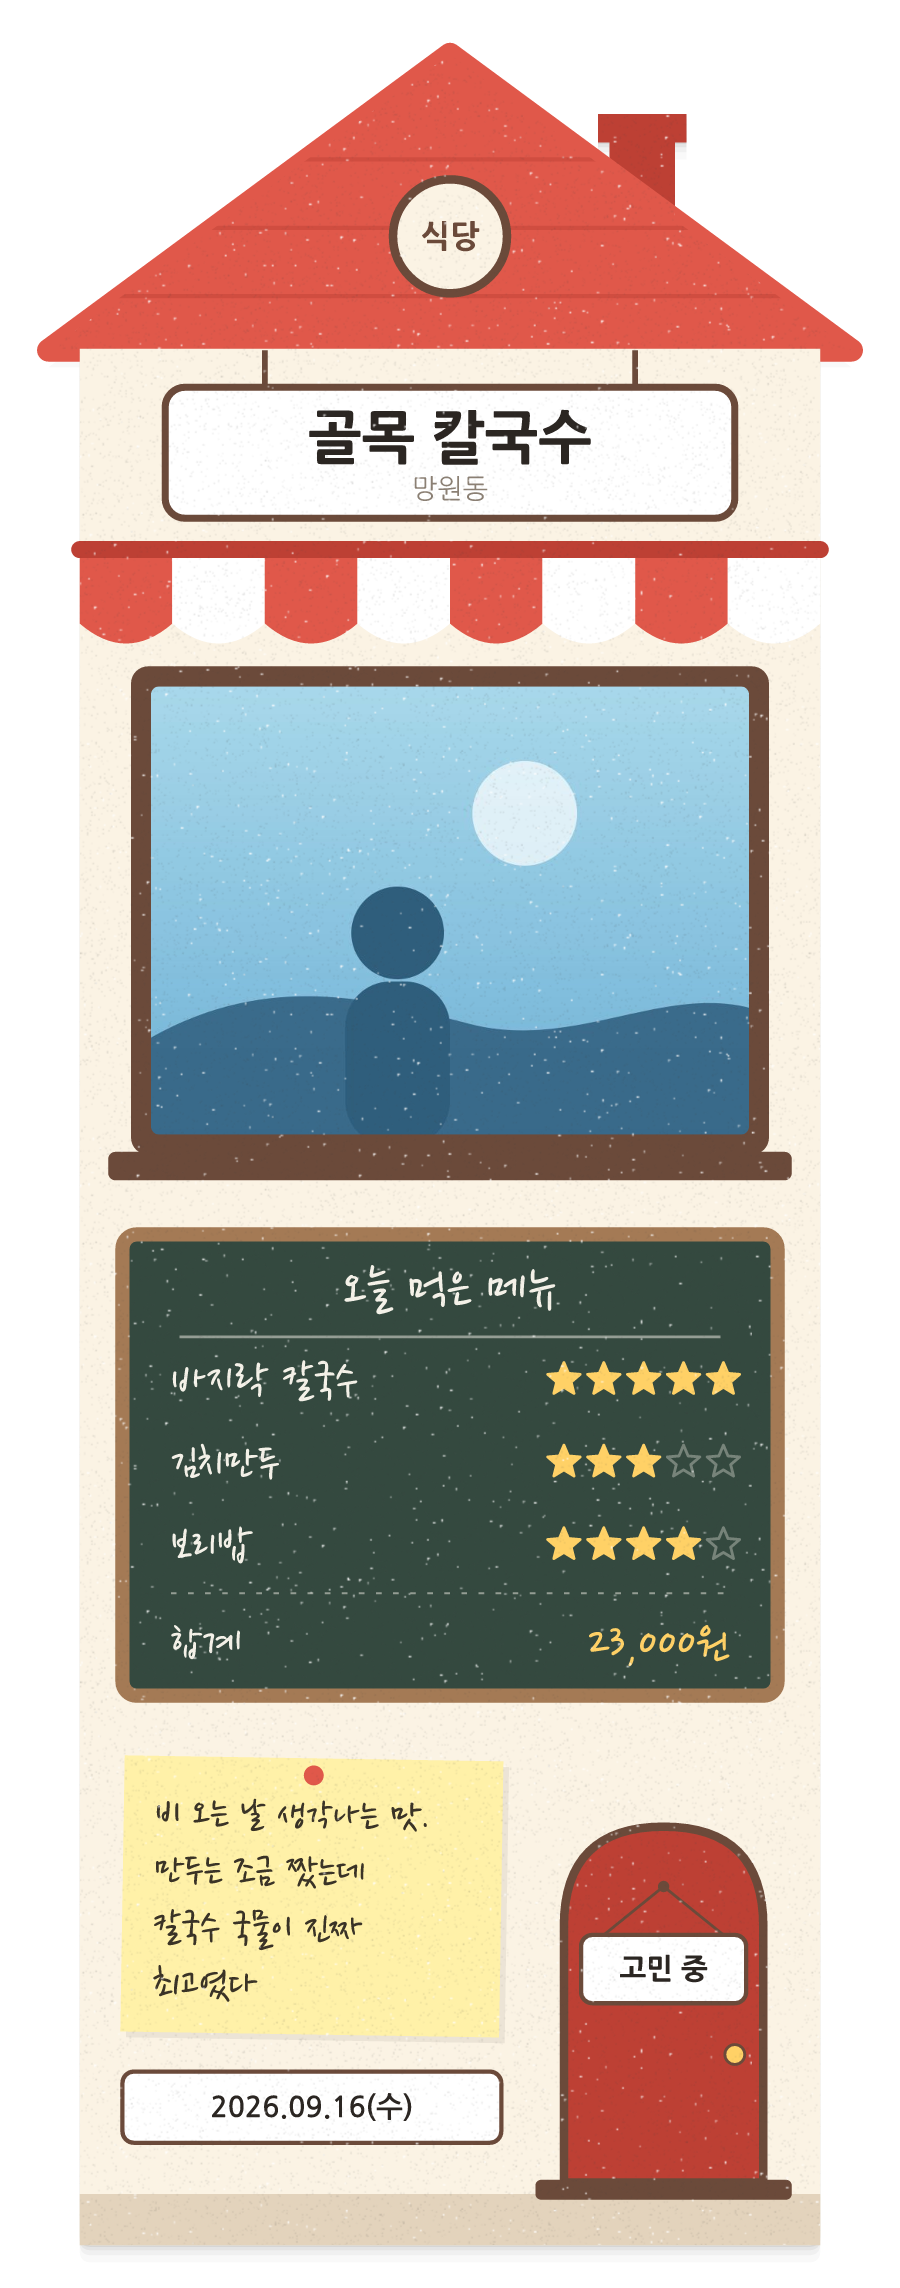
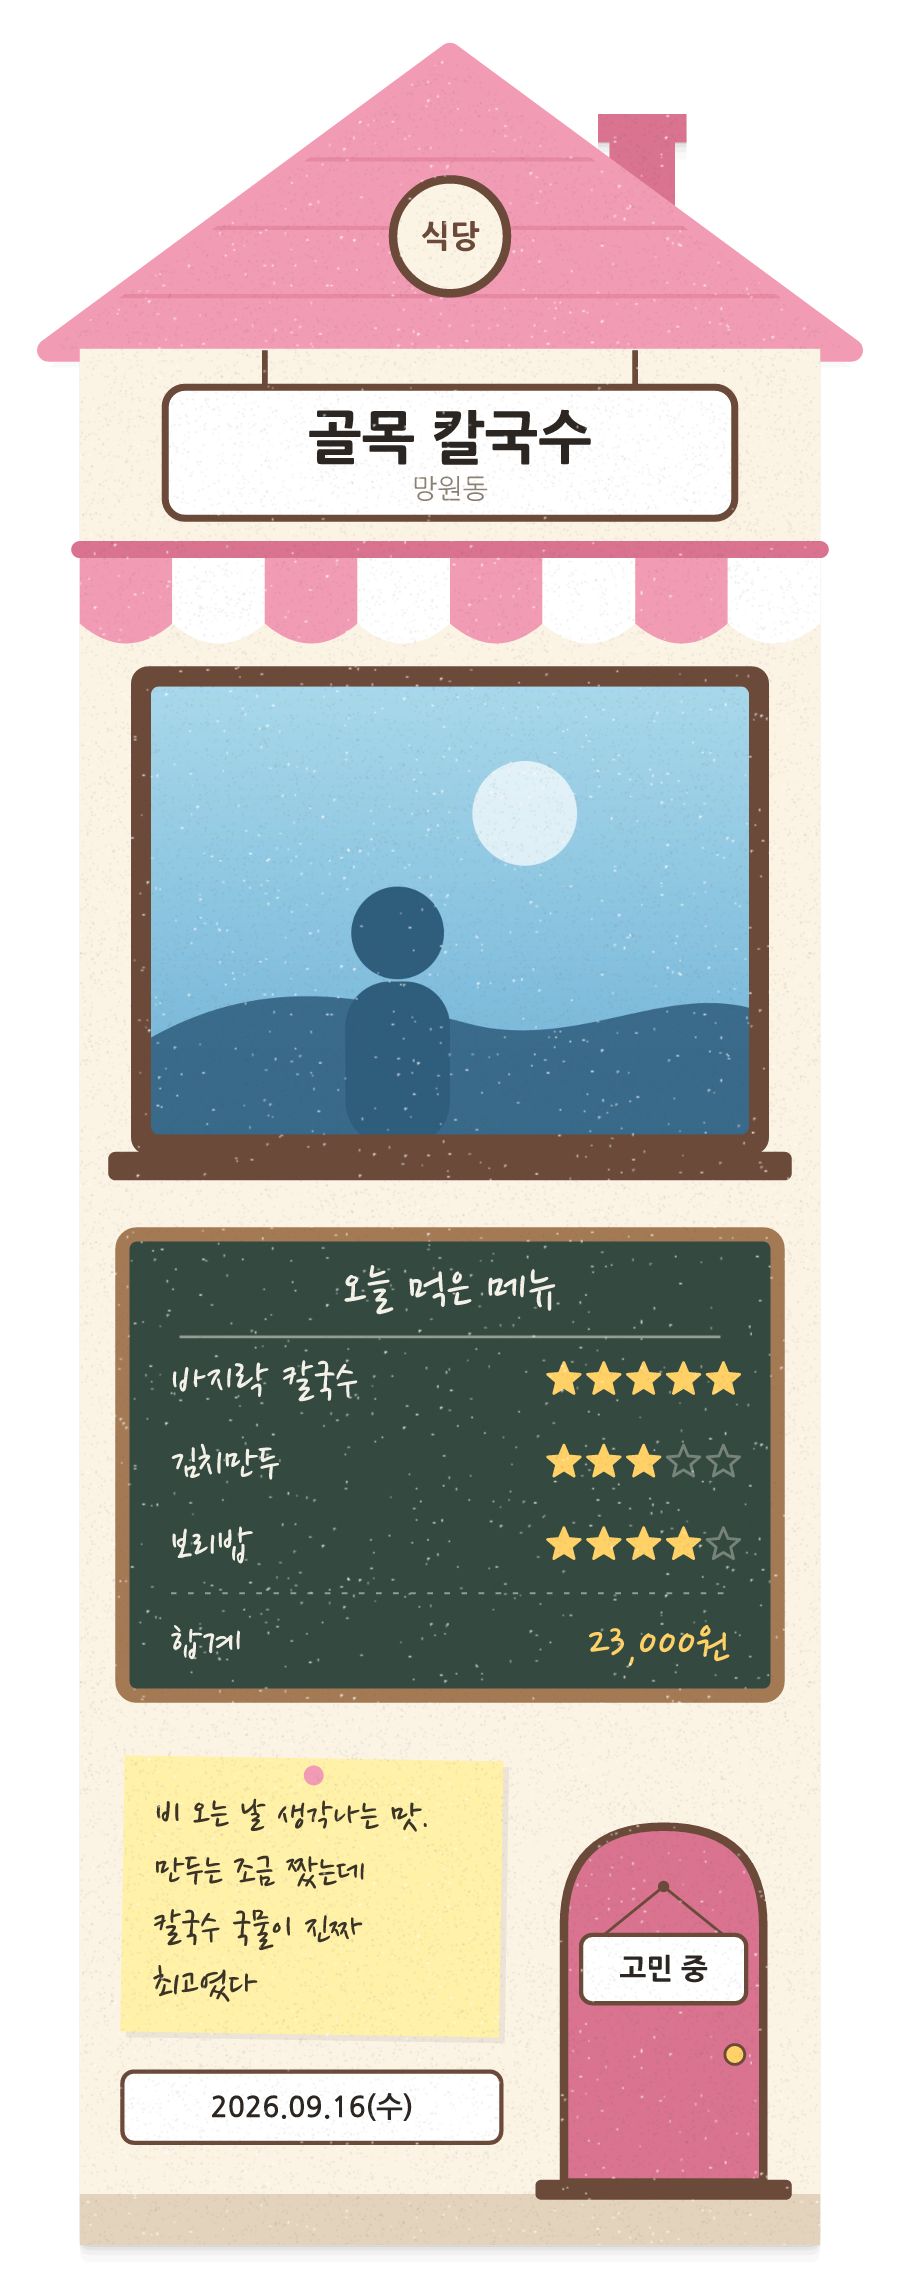
집 모양: 지붕 색을 가게 종류에서 떼어내 직접 고르기 (초록 추가)
- 색 5가지(주황·빨강·분홍·파랑·초록)를 영수증 모양에서 바로 고른다
- 집 모양을 처음 고르면 색이 무작위로 하나 정해진다
- 예전 기록은 id 로 정해진 색을 써서 열 때마다 바뀌지 않는다
- 창문 그림(☕🍚🍰🍺)은 그대로 가게 종류를 따른다
- 상점 미리보기에 색 다섯 장을 다 보여준다

Changed region(s): [[0.0311, 0.0, 0.9644, 0.1552], [0.0622, 0.2172, 0.9333, 0.2793], [0.6222, 0.7758, 0.8711, 0.962]]

diff --git a/app/src/components/ThemePicker.tsx b/app/src/components/ThemePicker.tsx
@@ -18,8 +18,9 @@ import {
   themeUnlocked,
   useShop,
 } from '../lib/shop';
+import { HOUSE_COLORS, HOUSE_COLOR_IDS, randomHouseColor } from '../templates/FoodHouse';
 import { COLORS, FONTS } from '../theme';
-import { ConcertDesign, FoodDesign, PaperTheme, ShowDesign } from '../types';
+import { ConcertDesign, FoodDesign, HouseColor, PaperTheme, ShowDesign } from '../types';
 import { ProductPreview } from './ProductPreview';
 
 /** 종이 테마 견본 그림 (기본 / 흰 무지 / 모눈종이) */
@@ -93,8 +94,8 @@ export function ThemePicker({ label, base, value, onChange }: Props) {
   );
 }
 
-/** 카페·맛집 모양 견본 (주문서 / 집) */
-export function FoodDesignSwatch({ design, size = 44 }: { design: FoodDesign | undefined; size?: number }) {
+/** 카페·맛집 모양 견본 (주문서 / 집). 집은 고른 지붕 색으로 그린다 */
+export function FoodDesignSwatch({ design, size = 44, color = 'orange' }: { design: FoodDesign | undefined; size?: number; color?: HouseColor }) {
   if (design === 'plain')
     return (
       <Svg width={size} height={size * 1.3} viewBox="0 0 40 52">
@@ -109,13 +110,14 @@ export function FoodDesignSwatch({ design, size = 44 }: { design: FoodDesign | u
       </Svg>
     );
   if (design === 'house') {
+    const c = HOUSE_COLORS[color] ?? HOUSE_COLORS.orange;
     return (
       <Svg width={size} height={size * 1.3} viewBox="0 0 40 52">
         <Rect x={6} y={18} width={28} height={33} rx={1.5} fill="#fbf3e4" stroke={COLORS.line} strokeWidth={1} />
-        <Path d="M2,20 L20,4 L38,20 Z" fill="#d9774f" stroke="#d9774f" strokeWidth={2} strokeLinejoin="round" />
+        <Path d="M2,20 L20,4 L38,20 Z" fill={c.roof} stroke={c.roof} strokeWidth={2} strokeLinejoin="round" />
         <Rect x={10} y={23} width={20} height={5} rx={1} fill="#fff" stroke="#6b4a3a" strokeWidth={1} />
         <Rect x={10} y={31} width={20} height={9} rx={1} fill="#dcecf2" stroke="#6b4a3a" strokeWidth={1.4} />
-        <Path d="M24,51 V45 Q24,42 27,42 Q30,42 30,45 V51 Z" fill="#b95c38" />
+        <Path d="M24,51 V45 Q24,42 27,42 Q30,42 30,45 V51 Z" fill={c.deep} />
         <Circle cx={20} cy={13} r={2.4} fill="#fbf3e4" />
       </Svg>
     );
@@ -135,13 +137,25 @@ export function FoodDesignSwatch({ design, size = 44 }: { design: FoodDesign | u
 }
 
 /** 카페·맛집 폼의 영수증 모양 고르기: 기본 주문서 + 산 모양 테마, 안 산 건 미리보기에서 사기 */
-export function FoodDesignPicker({ value, onChange }: { value: FoodDesign | undefined; onChange: (design: FoodDesign) => void }) {
+export function FoodDesignPicker({
+  value,
+  color,
+  onChange,
+}: {
+  value: FoodDesign | undefined;
+  color: HouseColor | undefined;
+  /** 집 모양을 처음 고르면 지붕 색도 무작위로 하나 정해서 같이 준다 */
+  onChange: (design: FoodDesign, color?: HouseColor) => void;
+}) {
   const { owned } = useShop();
   const [preview, setPreview] = useState<{ id: FoodDesign; product: PreviewProduct } | null>(null);
   const options: { id: FoodDesign; name: string; price: number }[] = [...FREE_FOOD_DESIGNS.map((d) => ({ ...d, price: 0 })), ...FOOD_DESIGNS];
+  const design = value ?? 'order';
+
+  const pick = (id: FoodDesign) => onChange(id, id === 'house' && !color ? randomHouseColor() : undefined);
 
   const choose = (id: FoodDesign) => {
-    if (foodDesignUnlocked(id, owned)) return onChange(id);
+    if (foodDesignUnlocked(id, owned)) return pick(id);
     setPreview({ id, product: foodDesignProductById(id as Exclude<FoodDesign, 'order'>) });
   };
 
@@ -150,12 +164,12 @@ export function FoodDesignPicker({ value, onChange }: { value: FoodDesign | unde
       <Text style={styles.label}>영수증 모양</Text>
       <View style={styles.row}>
         {options.map((o) => {
-          const on = (value ?? 'order') === o.id;
+          const on = design === o.id;
           const locked = !foodDesignUnlocked(o.id, owned);
           return (
             <Pressable key={o.id} onPress={() => choose(o.id)} style={[styles.option, on && styles.optionOn]} accessibilityLabel={`${o.name}${locked ? ' (잠김)' : ''}`}>
               <View style={locked && { opacity: 0.55 }}>
-                <FoodDesignSwatch design={o.id} />
+                <FoodDesignSwatch design={o.id} color={on ? color : undefined} />
               </View>
               <Text style={[styles.name, on && { color: COLORS.orange }]}>
                 {locked ? '🔒 ' : ''}
@@ -166,11 +180,23 @@ export function FoodDesignPicker({ value, onChange }: { value: FoodDesign | unde
           );
         })}
       </View>
+
+      {/* 집 모양을 골랐을 때만: 지붕·차양 색 고르기 */}
+      {design === 'house' && (
+        <View style={styles.colors}>
+          {HOUSE_COLOR_IDS.map((c) => (
+            <Pressable key={c} onPress={() => onChange('house', c)} hitSlop={6} accessibilityLabel={`${HOUSE_COLORS[c].name} 지붕`} style={[styles.dot, color === c && styles.dotOn]}>
+              <View style={[styles.dotFill, { backgroundColor: HOUSE_COLORS[c].roof }]} />
+            </Pressable>
+          ))}
+        </View>
+      )}
+
       <ProductPreview
         product={preview?.product ?? null}
         onClose={() => setPreview(null)}
         onBought={() => {
-          if (preview) onChange(preview.id);
+          if (preview) pick(preview.id);
           setPreview(null);
         }}
       />
@@ -375,4 +401,8 @@ const styles = StyleSheet.create({
   optionOn: { borderColor: COLORS.orange, backgroundColor: COLORS.orangeSoft },
   name: { color: COLORS.ink, fontSize: 13, fontFamily: FONTS.sansBold },
   price: { color: COLORS.sub, fontSize: 11, fontFamily: FONTS.sans, marginTop: -2 },
+  colors: { flexDirection: 'row', justifyContent: 'center', gap: 10, marginTop: 2 },
+  dot: { padding: 3, borderRadius: 999, borderWidth: 2, borderColor: 'transparent' },
+  dotOn: { borderColor: COLORS.orange },
+  dotFill: { width: 22, height: 22, borderRadius: 11, borderWidth: 1, borderColor: 'rgba(0,0,0,0.12)' },
 });

diff --git a/app/src/templates/FoodHouse.tsx b/app/src/templates/FoodHouse.tsx
@@ -6,7 +6,7 @@ import { StickerArt } from '../components/Stickers';
 import { dotDateWithDay, seededRandom, won } from '../lib/format';
 import { fitLine, fitLines } from '../lib/text';
 import { PAPER_FONTS as FONTS } from '../theme';
-import { FoodRecord, FoodType } from '../types';
+import { FoodRecord, FoodType, HouseColor } from '../types';
 import { FOOD_TYPES } from './FoodOrder';
 import { PaperOverlay, PaperShadow, TemplateLayout } from './shared';
 
@@ -25,13 +25,25 @@ const STAR = '#ffd166';
 const NOTE = '#fff1a8';
 const STONE = '#e3d3bc';
 
-// 가게 종류마다 지붕·차양 색과 창문 속 그림
-const ROOFS: Record<FoodType, { roof: string; deep: string; emoji: string }> = {
-  cafe: { roof: '#d9774f', deep: '#b95c38', emoji: '☕' },
-  meal: { roof: '#e0584a', deep: '#bd4034', emoji: '🍚' },
-  dessert: { roof: '#f29bb5', deep: '#d9738f', emoji: '🍰' },
-  bar: { roof: '#4f6fa8', deep: '#3a5687', emoji: '🍺' },
+// 지붕·차양·문 색. 가게 종류와 따로 고른다 (안 고른 기록은 id 로 정해진 색)
+export const HOUSE_COLORS: Record<HouseColor, { name: string; roof: string; deep: string }> = {
+  orange: { name: '주황', roof: '#d9774f', deep: '#b95c38' },
+  red: { name: '빨강', roof: '#e0584a', deep: '#bd4034' },
+  pink: { name: '분홍', roof: '#f29bb5', deep: '#d9738f' },
+  blue: { name: '파랑', roof: '#4f6fa8', deep: '#3a5687' },
+  green: { name: '초록', roof: '#5f9463', deep: '#44784b' },
 };
+
+export const HOUSE_COLOR_IDS = Object.keys(HOUSE_COLORS) as HouseColor[];
+
+export const randomHouseColor = () => HOUSE_COLOR_IDS[Math.floor(Math.random() * HOUSE_COLOR_IDS.length)];
+
+/** 색을 안 고른 기록(예전 기록)은 id 로 정해 열 때마다 바뀌지 않게 한다 */
+export const houseColorOf = (r: Pick<FoodRecord, 'id' | 'houseColor'>) =>
+  HOUSE_COLORS[r.houseColor ?? HOUSE_COLOR_IDS[Math.floor(seededRandom(`${r.id}-roof`)() * HOUSE_COLOR_IDS.length)]];
+
+// 사진이 없을 때 창문에 들어가는 그림 (이건 가게 종류를 따른다)
+const WINDOW_EMOJI: Record<FoodType, string> = { cafe: '☕', meal: '🍚', dessert: '🍰', bar: '🍺' };
 
 const DOOR_SIGN: Record<FoodRecord['revisit'], string> = { yes: '또 올래요!', maybe: '고민 중', no: '한 번이면 돼' };
 
@@ -96,7 +108,7 @@ function starPath(cx: number, cy: number, r: number) {
 export function FoodHouse({ record: r, width, connected = false }: { record: FoodRecord; width: number; connected?: boolean }) {
   const L = layoutFoodHouse(r);
   const { winH, winBot, boardTop, rows, totalH, boardBot, lowTop, note, noteH, ground, height } = computeLayout(r);
-  const color = ROOFS[r.type] ?? ROOFS.cafe;
+  const color = houseColorOf(r);
   const shape = housePath(height, connected);
   const id = `house-${r.id}`;
   const tilt = (seededRandom(`${r.id}-tilt`)() - 0.5) * 4;
@@ -165,7 +177,7 @@ export function FoodHouse({ record: r, width, connected = false }: { record: Foo
             <Rect x={WIN_X} y={WIN_TOP} width={WIN_W} height={winH} rx={6} fill="#dcecf2" />
             <Path d={`M${WIN_X},${WIN_TOP} H${WIN_X + 90} Q${WIN_X + 50},${WIN_TOP + winH * 0.45} ${WIN_X + 30},${WIN_TOP + winH} H${WIN_X} Z`} fill="#fff" opacity={0.85} />
             <Path d={`M${WIN_X + WIN_W},${WIN_TOP} H${WIN_X + WIN_W - 90} Q${WIN_X + WIN_W - 50},${WIN_TOP + winH * 0.45} ${WIN_X + WIN_W - 30},${WIN_TOP + winH} H${WIN_X + WIN_W} Z`} fill="#fff" opacity={0.85} />
-            <StickerArt emoji={color.emoji} x={300} y={WIN_TOP + winH / 2 + 6} size={130} rotate={-4} />
+            <StickerArt emoji={WINDOW_EMOJI[r.type] ?? WINDOW_EMOJI.cafe} x={300} y={WIN_TOP + winH / 2 + 6} size={130} rotate={-4} />
           </G>
         )}
         <Rect x={WIN_X - 30} y={winBot + 12} width={WIN_W + 60} height={20} rx={5} fill={TRIM} />

diff --git a/app/src/lib/products.ts b/app/src/lib/products.ts
@@ -1,6 +1,7 @@
 // 상점 미리보기에 보여줄 상품 정보: 이름·설명·가격·쓰는 곳 태그·예시 기록
 import { KIND_LABEL } from '../templates';
-import { ConcertDesign, RecoRecord, RecordKind, ShowDesign } from '../types';
+import { HOUSE_COLORS } from '../templates/FoodHouse';
+import { ConcertDesign, FoodRecord, HouseColor, RecoRecord, RecordKind, ShowDesign } from '../types';
 import { sampleConcert, sampleFood, sampleFourcut, sampleGift, sampleShow, sampleSpending } from './previewSamples';
 import { CONCERT_DESIGNS, ConcertDesignItem, FOOD_DESIGNS, FoodDesignItem, PAID_CATEGORIES, SHOW_DESIGNS, ShowDesignItem, THEMES, ThemeItem } from './shop';
 
@@ -50,28 +51,77 @@ export function foodDesignProduct(d: FoodDesignItem): PreviewProduct {
     price: d.price,
     tags: [KIND_LABEL.food],
     requires: ['food'],
-    samples: [
-      { record: { ...sampleFood(), id: `preview-food-${d.id}`, design: d.id }, caption: '카페' },
-      {
-        record: {
-          ...sampleFood(),
-          id: `preview-food-${d.id}-bar`,
-          design: d.id,
-          type: 'bar',
-          place: '연남 작은 술집',
-          menus: [
-            { name: '하이볼', stars: 5 },
-            { name: '감자전', stars: 4 },
-          ],
-          total: 21000,
-          revisit: 'maybe',
-          memo: '',
-        },
-        caption: '술집',
-      },
-    ],
+    // 지붕 색이 여러 가지라는 걸 보여준다 (색은 가게 종류와 상관없이 고른다)
+    samples: HOUSE_SAMPLES.map(({ color, type, place, menus, total, revisit, memo }) => ({
+      record: { ...sampleFood(), id: `preview-food-${d.id}-${color}`, design: d.id, houseColor: color, type, place, menus, total, revisit, memo },
+      caption: `${HOUSE_COLORS[color].name} 지붕`,
+    })),
   };
 }
+
+/** 집 모양 미리보기: 색마다 다른 가게로 한 장씩 */
+const HOUSE_SAMPLES: (Pick<FoodRecord, 'type' | 'place' | 'menus' | 'total' | 'revisit' | 'memo'> & { color: HouseColor })[] = [
+  {
+    color: 'orange',
+    type: 'cafe',
+    place: '달밤커피',
+    menus: [
+      { name: '아이스 라떼', stars: 4 },
+      { name: '바스크 치즈케이크', stars: 5 },
+    ],
+    total: 12500,
+    revisit: 'yes',
+    memo: '치즈케이크 꾸덕해서 또 먹고 싶다. 창가 자리 명당!',
+  },
+  {
+    color: 'green',
+    type: 'meal',
+    place: '초록상회 국수',
+    menus: [
+      { name: '들기름 막국수', stars: 5 },
+      { name: '수육 한 접시', stars: 4 },
+    ],
+    total: 23000,
+    revisit: 'yes',
+    memo: '들기름 향이 진하다. 다음엔 비빔으로.',
+  },
+  {
+    color: 'blue',
+    type: 'bar',
+    place: '연남 작은 술집',
+    menus: [
+      { name: '하이볼', stars: 5 },
+      { name: '감자전', stars: 4 },
+    ],
+    total: 21000,
+    revisit: 'maybe',
+    memo: '',
+  },
+  {
+    color: 'pink',
+    type: 'dessert',
+    place: '설탕구름 디저트',
+    menus: [
+      { name: '딸기 생크림 케이크', stars: 5 },
+      { name: '얼그레이 밀크티', stars: 3 },
+    ],
+    total: 16800,
+    revisit: 'yes',
+    memo: '생크림이 안 느끼하다.',
+  },
+  {
+    color: 'red',
+    type: 'meal',
+    place: '골목 분식',
+    menus: [
+      { name: '즉석 떡볶이', stars: 5 },
+      { name: '튀김 모둠', stars: 4 },
+    ],
+    total: 14000,
+    revisit: 'yes',
+    memo: '',
+  },
+];
 
 export const foodDesignProductById = (id: FoodDesignItem['id']) => foodDesignProduct(FOOD_DESIGNS.find((d) => d.id === id)!);
 

diff --git a/design/tools/preview/samples.js b/design/tools/preview/samples.js
@@ -80,12 +80,16 @@ module.exports = () => {
     { name: '맛집_식당_사진', record: { ...food, id: 'sample-food-2', place: '골목 칼국수', area: '망원동', type: 'meal', withWhom: '', photo: photo(3),
       menus: [{ name: '바지락 칼국수', stars: 5 }, { name: '김치만두', stars: 3 }, { name: '보리밥', stars: 4 }, { name: '아주 긴 이름의 계절 한정 들기름 막국수 곱빼기', stars: 2 }], total: 0, revisit: 'maybe', memo: '' } },
     { name: '맛집_단색', record: { ...food, id: 'sample-food-plain', design: 'plain', photo: null } },
-    { name: '맛집_집_카페', record: { ...food, id: 'sample-food-h1', design: 'house' } },
+    { name: '맛집_집_카페_주황', record: { ...food, id: 'sample-food-h1', design: 'house', houseColor: 'orange' } },
+    { name: '맛집_집_카페_초록', record: { ...food, id: 'sample-food-h5', design: 'house', houseColor: 'green', place: '초록상회 국수', type: 'meal',
+      menus: [{ name: '들기름 막국수', stars: 5 }, { name: '수육 한 접시', stars: 4 }], total: 23000, memo: '들기름 향이 진하다. 다음엔 비빔으로.' } },
+    { name: '맛집_집_카페_빨강', record: { ...food, id: 'sample-food-h6', design: 'house', houseColor: 'red', place: '골목 분식', type: 'meal',
+      menus: [{ name: '즉석 떡볶이', stars: 5 }, { name: '튀김 모둠', stars: 4 }], total: 14000, memo: '' } },
     { name: '맛집_집_식당_사진', record: { ...food, id: 'sample-food-h2', design: 'house', place: '골목 칼국수', area: '망원동', type: 'meal', withWhom: '', photo: photo(2),
       menus: [{ name: '바지락 칼국수', stars: 5 }, { name: '김치만두', stars: 3 }, { name: '보리밥', stars: 4 }], total: 23000, revisit: 'maybe',
       memo: '비 오는 날 생각나는 맛. 만두는 조금 짰는데 칼국수 국물이 진짜 최고였다' } },
-    { name: '맛집_집_디저트_최소', record: { ...food, id: 'sample-food-h3', design: 'house', type: 'dessert', place: '', area: '', withWhom: '', menus: [], total: 0, revisit: 'no', memo: '' } },
-    { name: '맛집_집_술집', record: { ...food, id: 'sample-food-h4', design: 'house', type: 'bar', place: '연남 작은 술집 이름이 꽤 긴 가게', revisit: 'yes' } },
+    { name: '맛집_집_디저트_최소', record: { ...food, id: 'sample-food-h3', design: 'house', houseColor: 'pink', type: 'dessert', place: '', area: '', withWhom: '', menus: [], total: 0, revisit: 'no', memo: '' } },
+    { name: '맛집_집_술집', record: { ...food, id: 'sample-food-h4', design: 'house', houseColor: 'blue', type: 'bar', place: '연남 작은 술집 이름이 꽤 긴 가게', revisit: 'yes' } },
     { name: '맛집_최소', record: { ...food, id: 'sample-food-3', place: '', area: '', withWhom: '', menus: [], total: 0, revisit: 'no', memo: '' } },
     { name: '선물_받은_노랑', record: gift },
     { name: '선물_보낸_사진_민트', record: { ...gift, id: 'sample-gift-2', direction: 'given', person: '엄마', item: '꽃다발', brand: '', price: 0, message: '생일 축하해요 엄마, 늘 고마워요.', photo: photo(2), card: 'mint' } },

diff --git a/app/src/types.ts b/app/src/types.ts
@@ -145,6 +145,9 @@ export type FoodType = 'cafe' | 'meal' | 'dessert' | 'bar';
 /** order: 초록 맛집 주문서, plain: 단색 주문서 (여기까지 무료) / house: 집 모양 */
 export type FoodDesign = 'order' | 'plain' | 'house';
 
+/** 집 모양의 지붕·차양 색 (가게 종류와 상관없이 고른다) */
+export type HouseColor = 'orange' | 'red' | 'pink' | 'blue' | 'green';
+
 export interface FoodMenu {
   name: string;
   stars: number; // 0~5
@@ -164,6 +167,7 @@ export interface FoodRecord extends BaseRecord {
   memo: string; // 한 줄 후기
   photo: Photo | null;
   design?: FoodDesign; // 없으면 주문서
+  houseColor?: HouseColor; // 집 모양 지붕 색 (고를 때 무작위로 정해준다)
 }
 
 export type ShowType = 'play' | 'exhibition';

diff --git a/app/src/components/RecordForm.tsx b/app/src/components/RecordForm.tsx
@@ -1236,7 +1236,11 @@ export function RecordForm({ visible, records = [], initialKind, editing, onClos
                   ))}
                 </View>
                 <Field label="한 줄 후기 (포스트잇에 적혀요)" value={food.memo} onChange={(v) => setFood({ ...food, memo: v })} placeholder="치즈케이크 꾸덕해서 또 먹고 싶다" multiline />
-                <FoodDesignPicker value={food.design} onChange={(design) => setFood((f) => ({ ...f, design }))} />
+                <FoodDesignPicker
+                  value={food.design}
+                  color={food.houseColor}
+                  onChange={(design, houseColor) => setFood((f) => ({ ...f, design, houseColor: houseColor ?? f.houseColor }))}
+                />
               </>
             )}
 

diff --git a/app/src/lib/shop.ts b/app/src/lib/shop.ts
@@ -66,7 +66,7 @@ export const FREE_FOOD_DESIGNS: { id: FoodDesign; name: string }[] = [
 ];
 
 export const FOOD_DESIGNS: FoodDesignItem[] = [
-  { id: 'house', name: '집 모양', desc: '간판·창문 사진·칠판 메뉴가 있는 작은 가게 집', productId: 'recoco.theme.food-house', price: 1000 },
+  { id: 'house', name: '집 모양', desc: '간판·창문 사진·칠판 메뉴가 있는 작은 가게 집 · 지붕 색 5가지', productId: 'recoco.theme.food-house', price: 1000 },
 ];
 
 export const foodDesignUnlocked = (id: FoodDesign | undefined, owned: string[]) =>
